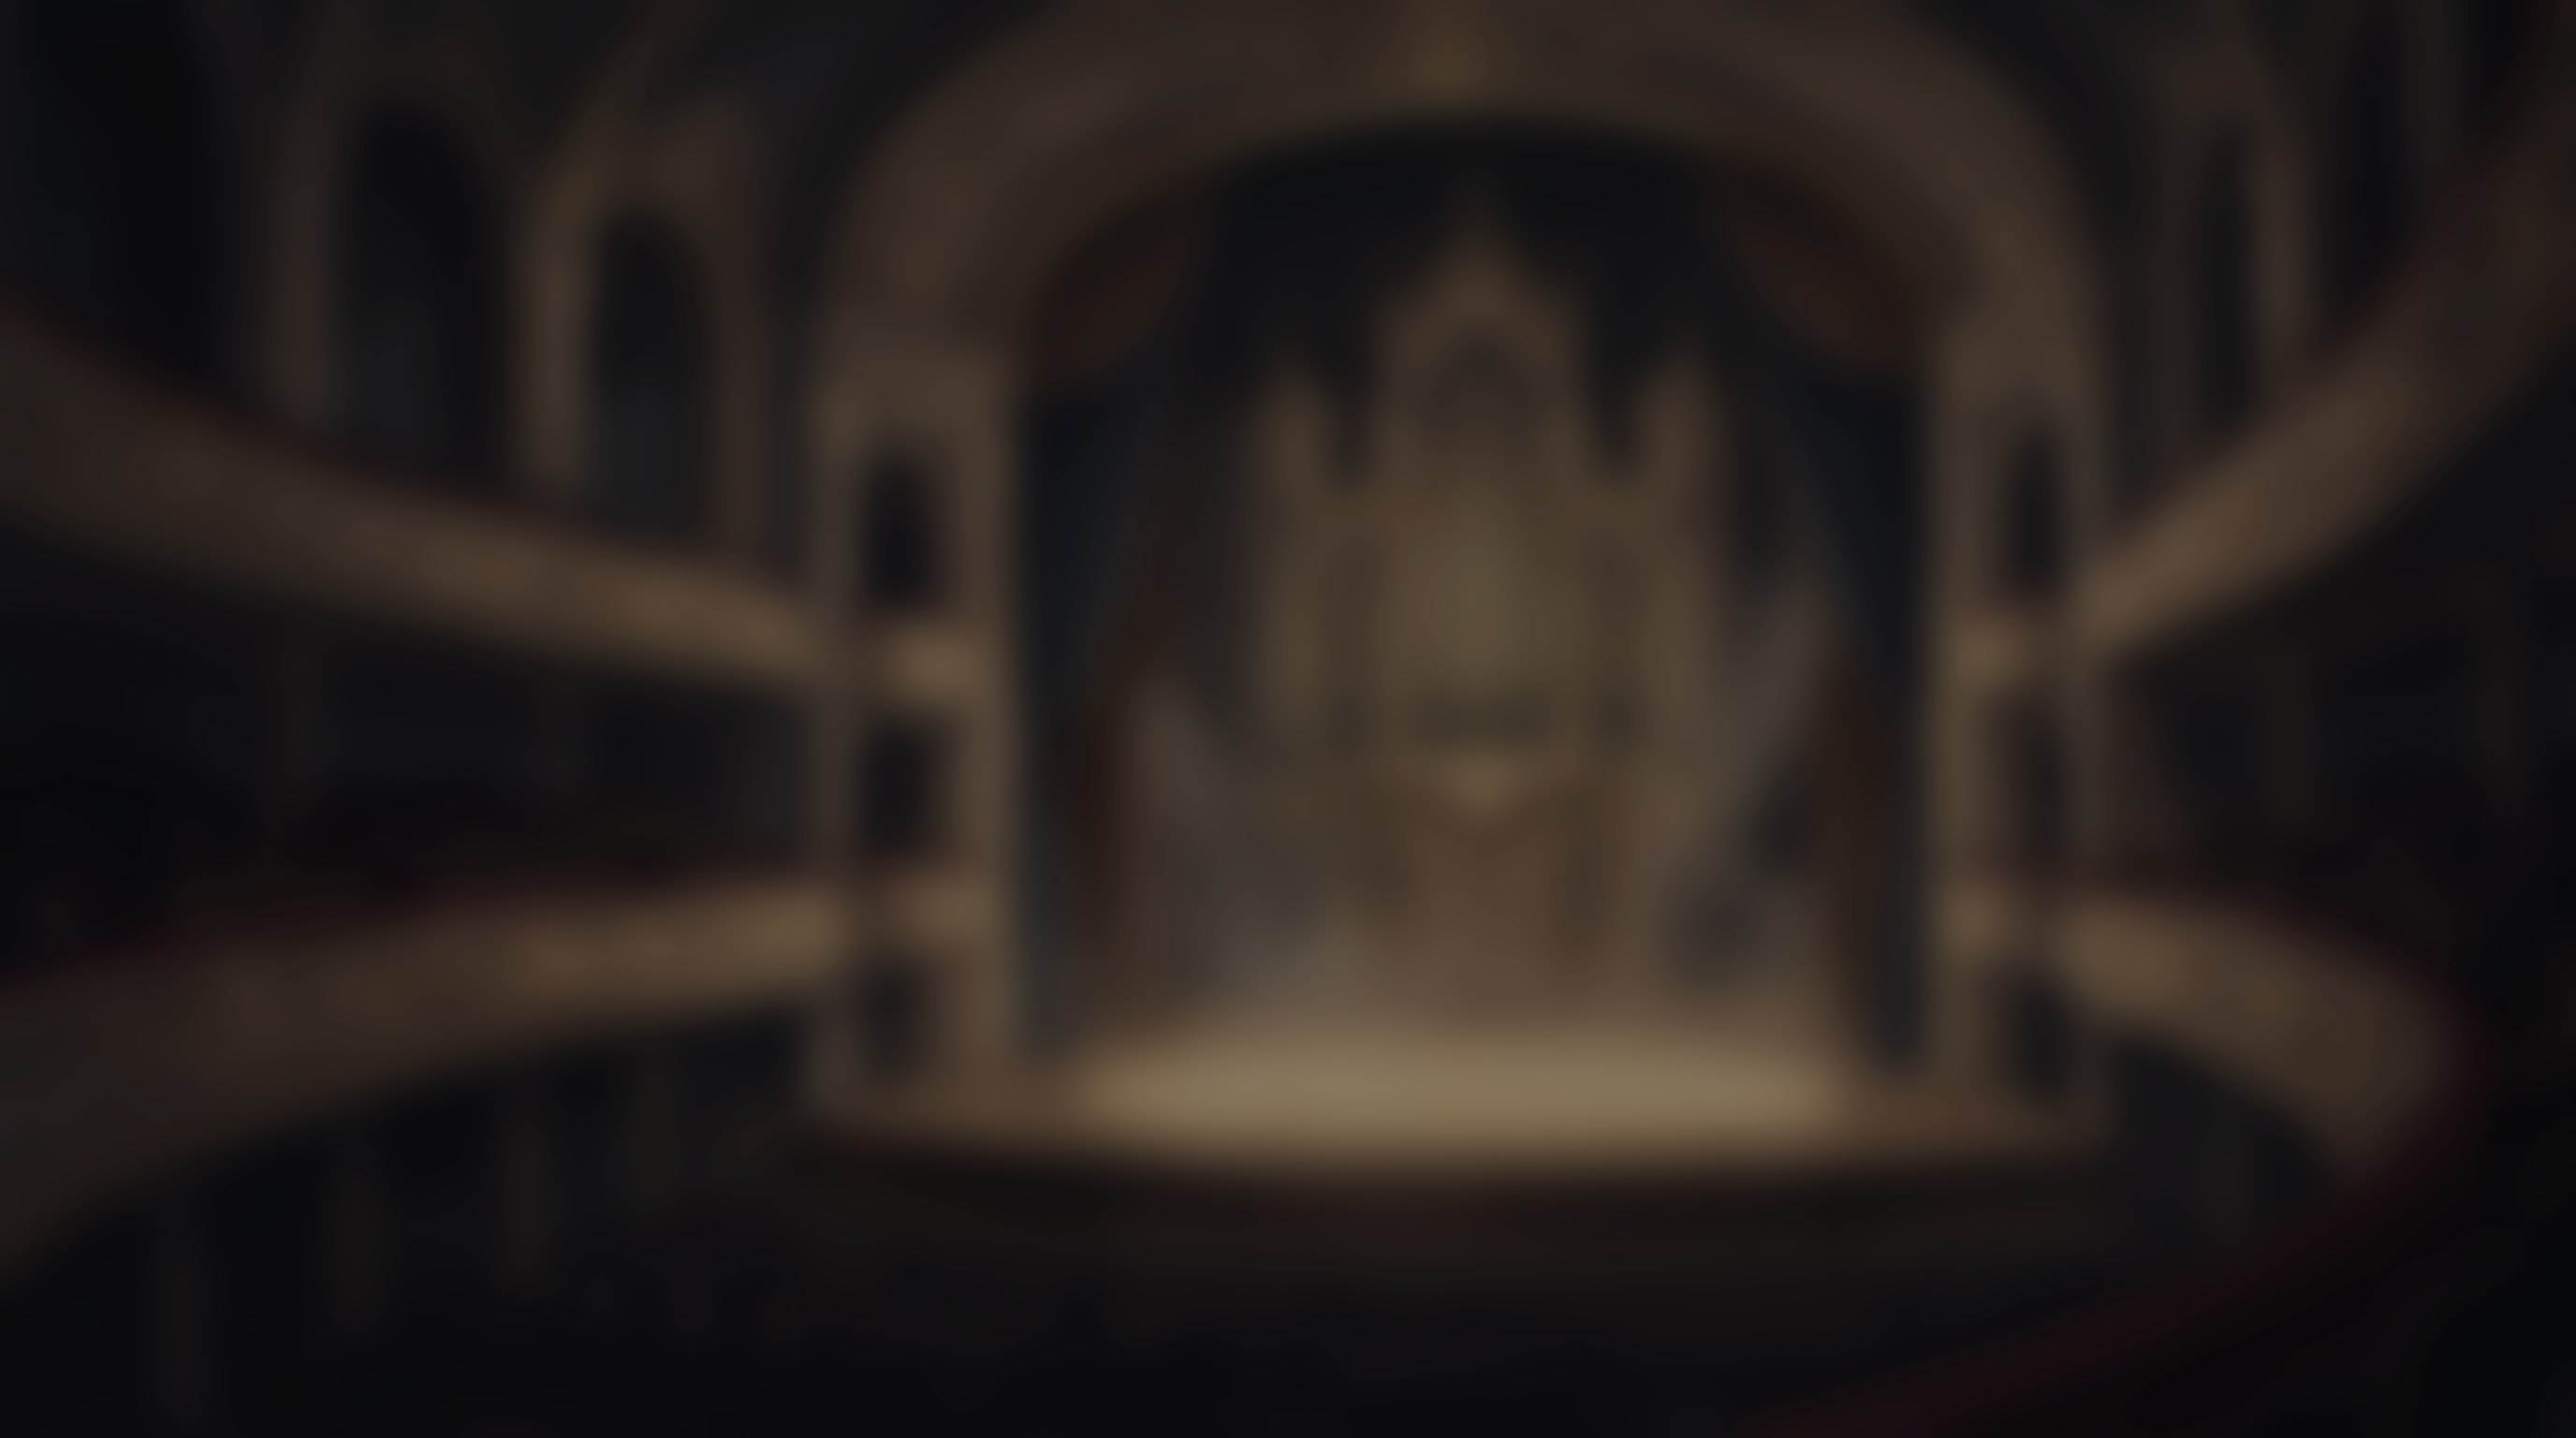
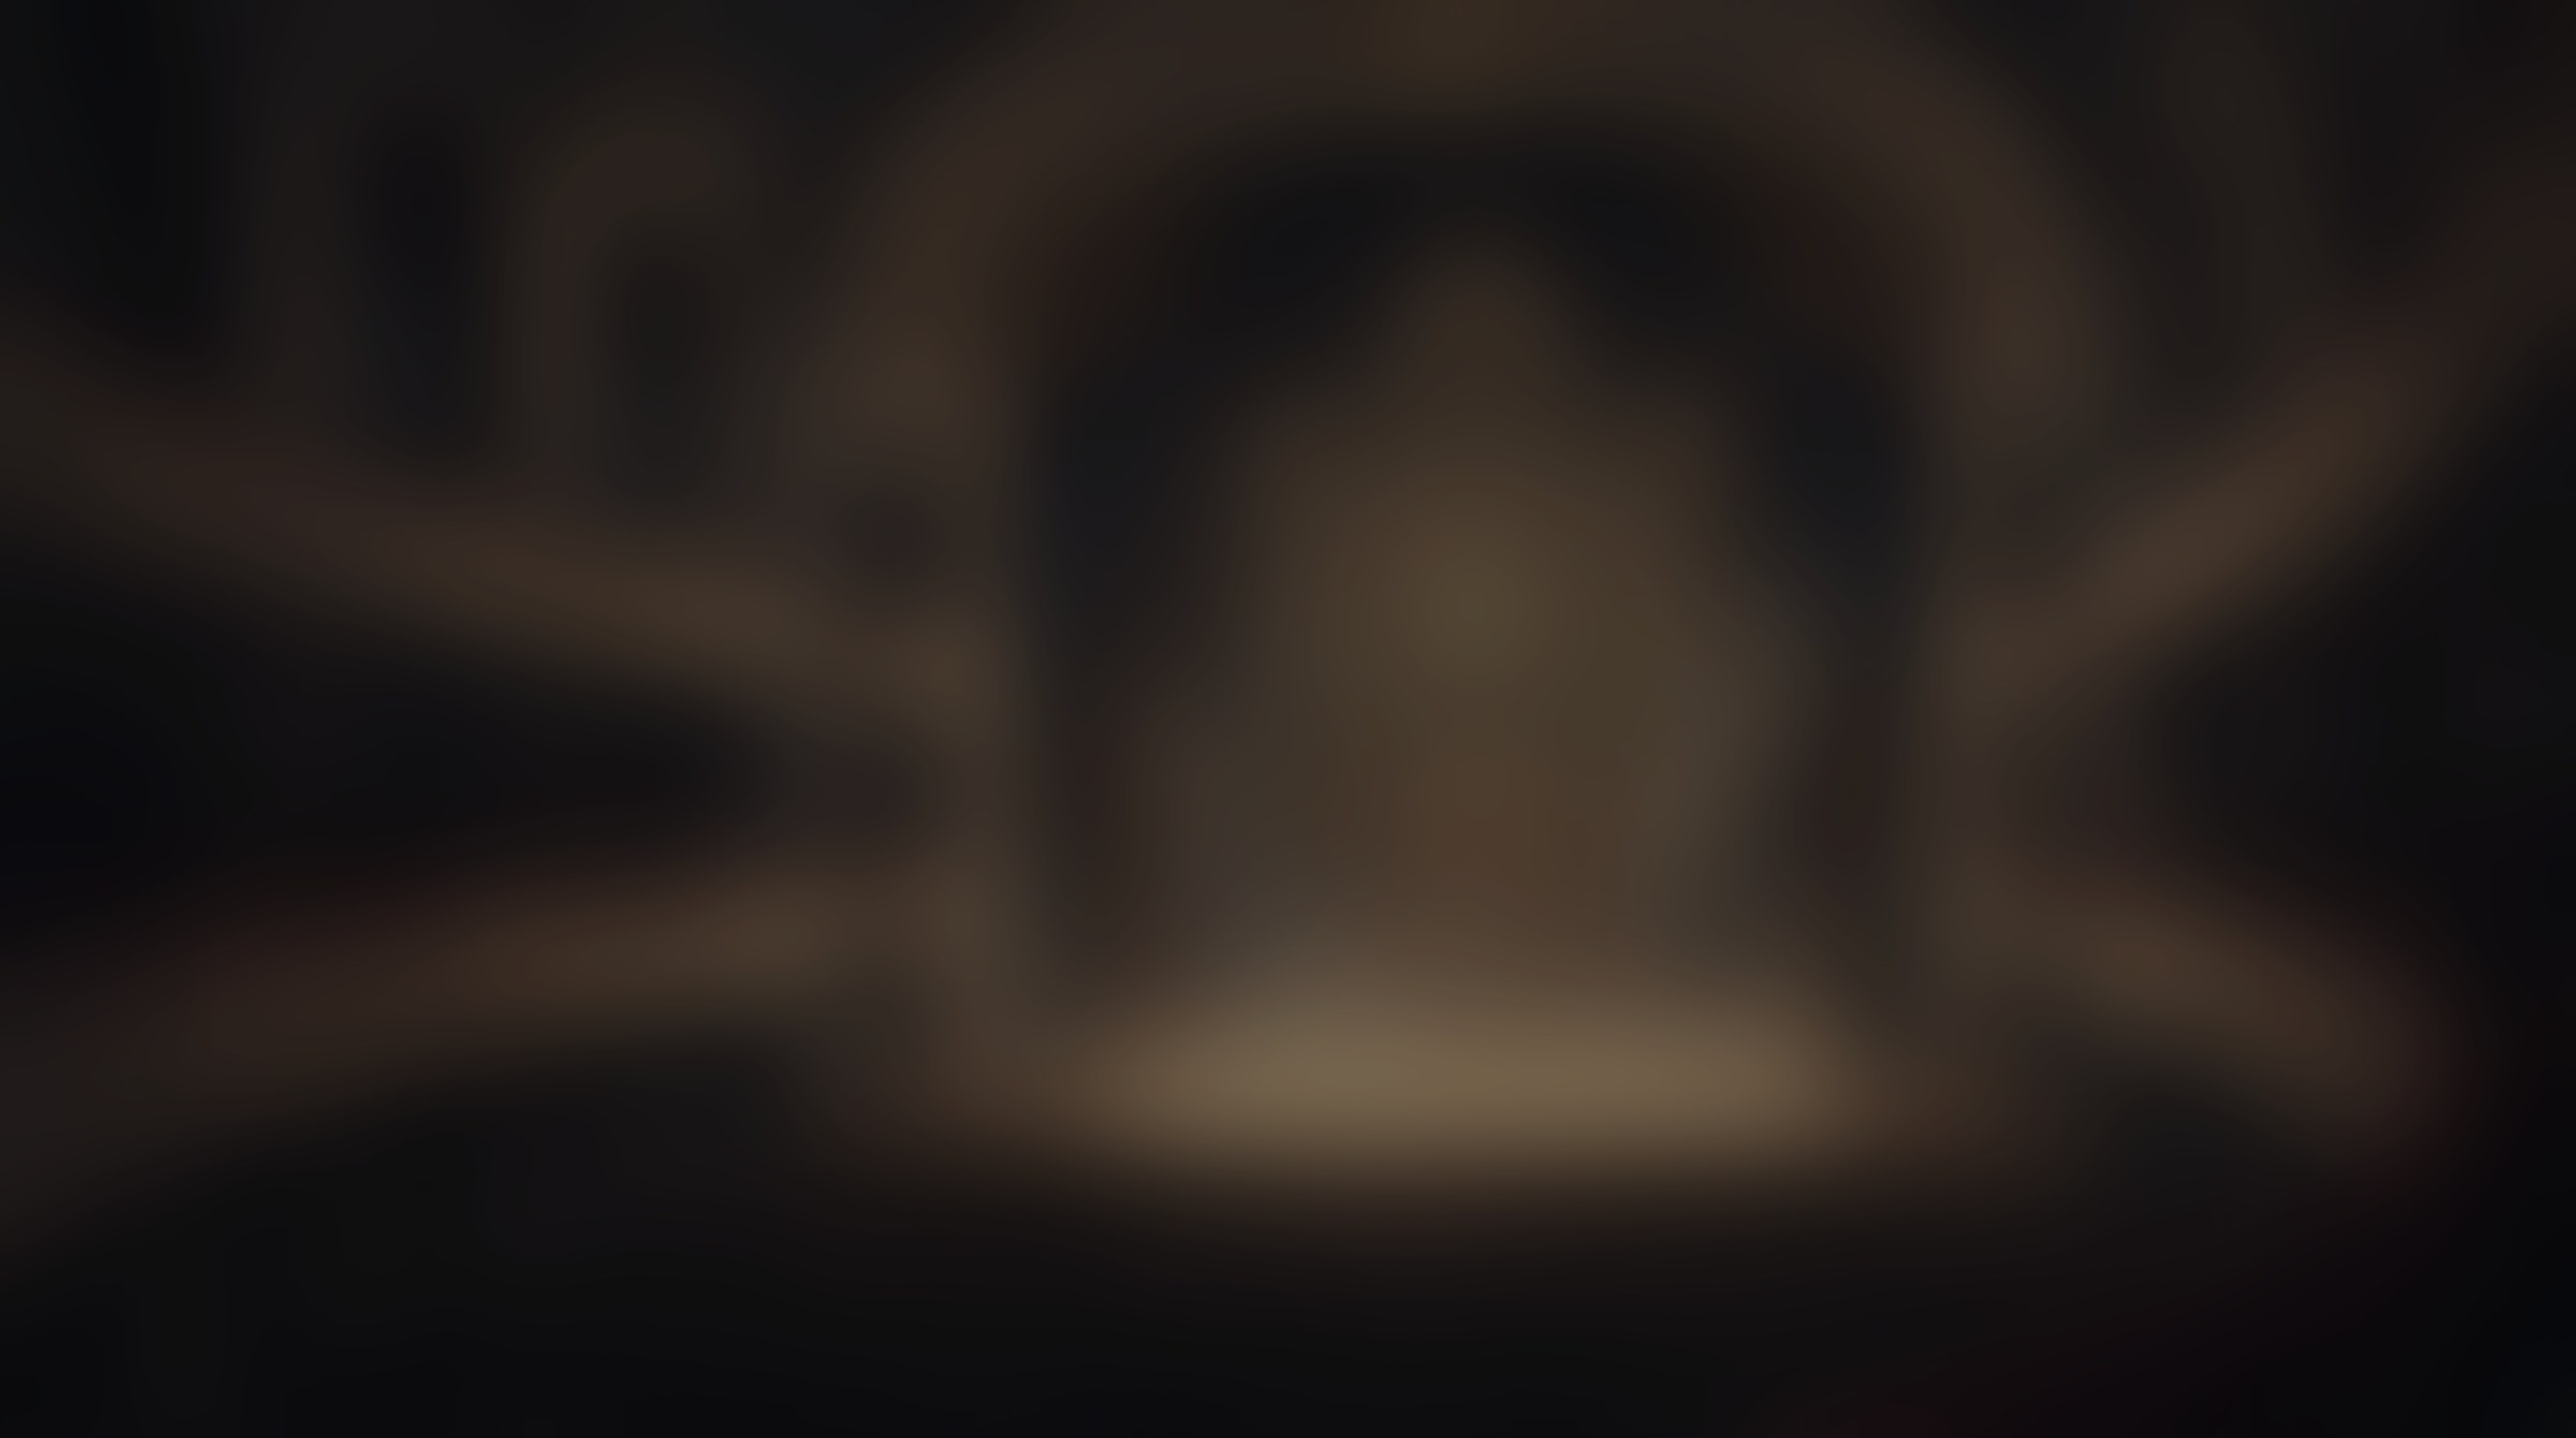
§11 rework: near-abstract blurred backdrop, strip spotlight + procedural hall (per Vince)
Vince's new direction: keep the hall art but blur it so tightly it becomes pure
atmosphere and never overwhelms the orchestra buttons.
- Re-blurred the master HARD (Gaussian r=52 + darken/desaturate) → soft washes of
  light/colour, no readable detail (115KB).
- StageHall: removed ALL procedural hall layers (back-wall glow, organ/arch, haze,
  risers, audience, floor glow) — only the blurred master + per-era recolor + gloom
  vignette remain. Keeps the per-era zoom-out (era0 tight → era6 full picture) + blaze.
- ComposePage: removed the spotlight beam, lamp/tempo-heartbeat, and floor pool. The
  blurred backdrop now carries all stage lighting; dropped the now-unused stageGlow,
  pulseDur, tempo.
Result: era0 = faint gloom, era6 = soft gold wash — atmosphere only, buttons dominate.

diff --git a/src/components/compose/StageHall.tsx b/src/components/compose/StageHall.tsx
@@ -31,8 +31,6 @@ export const StageHall = memo(function StageHall({ era, liveliness, blaze = 0 }:
   // Grandeur ramps across all 6 layers from a DIM intimate base — earned, not given.
   const t = Math.pow(e / TOTAL_LAYERS, 0.7)
   const grand = Math.min(1, 0.12 + t * 0.88 + liveliness * 0.04) // era0 ~0.12 (dim) → 1.0 (Canon)
-  const archOn = Math.min(1, 0.06 + t * 0.85)
-  const audienceOn = e >= 1 ? Math.min(1, 0.1 + t * 0.9) : 0 // no audience until you've earned an Encore
 
   return (
     <div
@@ -40,77 +38,10 @@ export const StageHall = memo(function StageHall({ era, liveliness, blaze = 0 }:
       aria-hidden="true"
       style={{ contain: 'paint', transform: 'translateZ(0)' }}
     >
-      {/* ── back-wall ambient glow (soft radial — no blur filter; Firefox-cheap) ── */}
-      <div
-        className="absolute left-1/2 top-[28%] -translate-x-1/2 transition-all duration-[1500ms] ease-out"
-        style={{
-          width: `${52 + grand * 32}%`, height: '52%',
-          opacity: 0.1 + grand * 0.45,
-          background: `radial-gradient(60% 55% at 50% 45%, ${color}2e, transparent 72%)`,
-        }}
-      />
-      {/* ── grand architecture: organ pipes + proscenium back wall (linear mask only) ── */}
-      <div
-        className="absolute left-1/2 top-[6%] -translate-x-1/2 transition-all duration-[1500ms] ease-out"
-        style={{
-          width: `${42 + grand * 36}%`, height: '46%',
-          opacity: archOn * 0.5,
-          background: `repeating-linear-gradient(90deg, ${color}22 0 6px, transparent 6px 26px)`,
-          maskImage: 'linear-gradient(180deg, #000 0%, #000 55%, transparent 100%)',
-          WebkitMaskImage: 'linear-gradient(180deg, #000 0%, #000 55%, transparent 100%)',
-          borderTopLeftRadius: '50% 80%', borderTopRightRadius: '50% 80%',
-          borderTop: `1px solid ${color}33`,
-        }}
-      />
-      {/* ── soft overhead haze from the lamp (replaces the costly conic god-rays) ── */}
-      <div
-        className="absolute inset-x-0 top-0 h-[34%] transition-opacity duration-[1500ms]"
-        style={{
-          opacity: 0.1 + grand * 0.5,
-          background:
-            `radial-gradient(45% 60% at 50% 0%, ${color}14, transparent 72%),` +
-            `radial-gradient(7% 38% at 22% 0%, ${color}26, transparent 70%),` +
-            `radial-gradient(7% 38% at 78% 0%, ${color}26, transparent 70%)`,
-        }}
-      />
-      {/* ── tiered risers receding behind the orchestra (one radial mask; stays visible at era 0) ── */}
-      <div
-        className="absolute left-1/2 bottom-[16%] -translate-x-1/2 transition-all duration-[1500ms] ease-out"
-        style={{ width: `${64 + grand * 26}%`, height: '34%', opacity: 0.4 + grand * 0.5 }}
-      >
-        <div
-          className="w-full h-full"
-          style={{
-            background:
-              `repeating-linear-gradient(0deg, ${color}26 0 16px, ${color}66 16px 18px, ${color}08 18px 20px)`,
-            maskImage: 'radial-gradient(95% 130% at 50% 100%, #000 50%, transparent 88%)',
-            WebkitMaskImage: 'radial-gradient(95% 130% at 50% 100%, #000 50%, transparent 88%)',
-            transform: 'perspective(700px) rotateX(42deg)',
-            transformOrigin: 'bottom center',
-          }}
-        />
-      </div>
-      {/* ── audience: silhouetted rows filling the house (front foreground) ── */}
-      <svg
-        className="absolute inset-x-0 bottom-0 w-full h-[18%] transition-opacity duration-[1500ms]"
-        style={{ opacity: audienceOn * 0.55 }}
-        viewBox="0 0 100 20" preserveAspectRatio="none"
-      >
-        {[16, 13, 10].map((cy, row) => (
-          <g key={row} fill="#000" opacity={0.5 + row * 0.18}>
-            {Array.from({ length: 26 }, (_, i) => (
-              <circle key={i} cx={(i + (row % 2) * 0.5) * (100 / 26) + 1} cy={cy} r={1.1 - row * 0.15} />
-            ))}
-          </g>
-        ))}
-      </svg>
-      {/* ── era-tinted floor glow ── */}
-      <div
-        className="absolute inset-x-0 bottom-0 h-[26%] transition-all duration-[1500ms]"
-        style={{ opacity: 0.12 + grand * 0.4, background: `radial-gradient(50% 120% at 50% 100%, ${color}24, transparent 72%)` }}
-      />
-      {/* ── §11 master backdrop: one illustrative hall, zoomed + mood-shifted per era (camera pull-back).
-            Sits in front of the procedural layers (which remain as graceful fallback if the art fails). ── */}
+      {/* Procedural hall layers removed (per Vince) — the near-abstract blurred master below carries ALL
+          the atmosphere now, so nothing competes with the orchestra buttons. */}
+      {/* ── §11 backdrop: ONE near-abstract, heavily-blurred hall (offline-blurred to pure mood), zoomed-out
+            + recolored per era. Kept subtle + heavily feathered so it recedes behind the buttons. ── */}
       <img
         src={HALL_MASTER}
         alt=""

diff --git a/src/components/compose/ComposePage.tsx b/src/components/compose/ComposePage.tsx
@@ -31,7 +31,6 @@ export function ComposePage() {
   const recordsSold = useGameStore((s) => s.recordsSold)
   const platinum = useGameStore((s) => s.platinum)
   const finalePoints = useGameStore((s) => s.finalePoints)
-  const tempo = useGameStore((s) => s.tempo)
   const layer1WallReached = useGameStore((s) => s.layer1WallReached)
   const opusCount = useGameStore((s) => s.opusCount)
   const peakCrescendoMult = useGameStore((s) => s.peakCrescendoMult)
@@ -65,8 +64,7 @@ export function ComposePage() {
   const moProgress = Math.min(100, (moPurchased / moCost.amount) * 100)
   const projectedOpGain = getOpusGain({ platinum, opGainFlatLevel: opusUpgrades['op-gain-flat'] ?? 0, opusCount, peakCrescendoMult, levels: opusUpgrades })
 
-  // Spotlight heartbeat (capped) + ambient liveliness (bland pre-Encore, warmer each layer).
-  const pulseDur = Math.min(2, Math.max(0.5, 60 / (tempo.baseBPM || 60)))
+  // Ambient liveliness (bland pre-Encore, warmer each layer) — feeds the backdrop grandeur ramp.
   const liveliness = getLiveliness(lifetimeEncorePoints, opusCount, finalePoints)
   // Stage era = one hall tier per prestige layer (0 intimate · 1 Encore · 2 Magnum Opus ·
   // 3 Repertoire · 4 Genre · 5 Virtuoso · 6 Canon). Only 0-2 reachable today; finale jumps to the top tier.
@@ -74,8 +72,7 @@ export function ComposePage() {
   const orchestraScale = [1, 0.93, 0.86, 0.82, 0.78, 0.74, 0.7][era] ?? 0.7 // camera pulls back per layer
   // §11 "lights up as you climb": the hall brightens with your Soundwave climb and BLAZES as you conduct.
   const climb = peakSoundwaves.gt(1) ? Math.min(1, Math.max(0, peakSoundwaves.log10()) / 100) : 0 // 0..1 across the climb
-  const blaze = Math.max(0, Math.min(1, crescendo)) // crescendo fraction — rises while holding Conduct
-  const stageGlow = Math.min(1, 0.45 + (era / 6) * 0.25 + climb * 0.15 + blaze * 0.4)
+  const blaze = Math.max(0, Math.min(1, crescendo)) // crescendo fraction — rises while holding Conduct (→ StageHall)
   // Live "conduct stage" multipliers (crescendo updates as you hold Conduct).
   const crescendoMult = getCrescendoMultiplier(crescendo, opusUpgrades)
   const tempoOpMult = getTempoOpMultiplier(opusUpgrades)
@@ -122,30 +119,8 @@ export function ComposePage() {
           'linear-gradient(180deg, #050507 0%, #020203 100%)',
       }}
     >
-      {/* spotlight beam from above */}
-      <div
-        className="pointer-events-none absolute left-1/2 top-0 -translate-x-1/2 z-0"
-        style={{
-          width: '72%', height: '80%', opacity: stageGlow,
-          background: 'linear-gradient(180deg, rgba(212,168,67,0.20), rgba(212,168,67,0.05) 50%, transparent 80%)',
-          clipPath: 'polygon(46% 0%, 54% 0%, 100% 100%, 0% 100%)',
-        }}
-      />
-      {/* lamp source + capped tempo heartbeat */}
-      <div
-        className="pointer-events-none absolute left-1/2 top-0 -translate-x-1/2 z-0"
-        style={{
-          width: 170, height: 130,
-          background: 'radial-gradient(50% 70% at 50% 0%, rgba(255,236,180,0.55), rgba(212,168,67,0.18) 45%, transparent 75%)',
-          animation: `tempo-pulse ${pulseDur}s ease-in-out infinite`,
-        }}
-      />
-      {/* stage floor pool */}
-      <div
-        className="pointer-events-none absolute inset-x-0 bottom-0 h-48 z-0"
-        style={{ opacity: stageGlow, background: 'radial-gradient(55% 100% at 50% 100%, rgba(212,168,67,0.12), transparent 70%)' }}
-      />
-      {/* the living hall — risers, audience, architecture, overhead light (grows per era) */}
+      {/* spotlight beam / lamp / floor pool removed (per Vince) — the near-abstract blurred backdrop
+          carries all the stage lighting now, so nothing overwhelms the orchestra buttons. */}
       <StageHall era={era} liveliness={liveliness} blaze={blaze} />
       {/* ambient drifting notes — scoped to the Compose stage (scales with liveliness) */}
       <FloatingNotes />